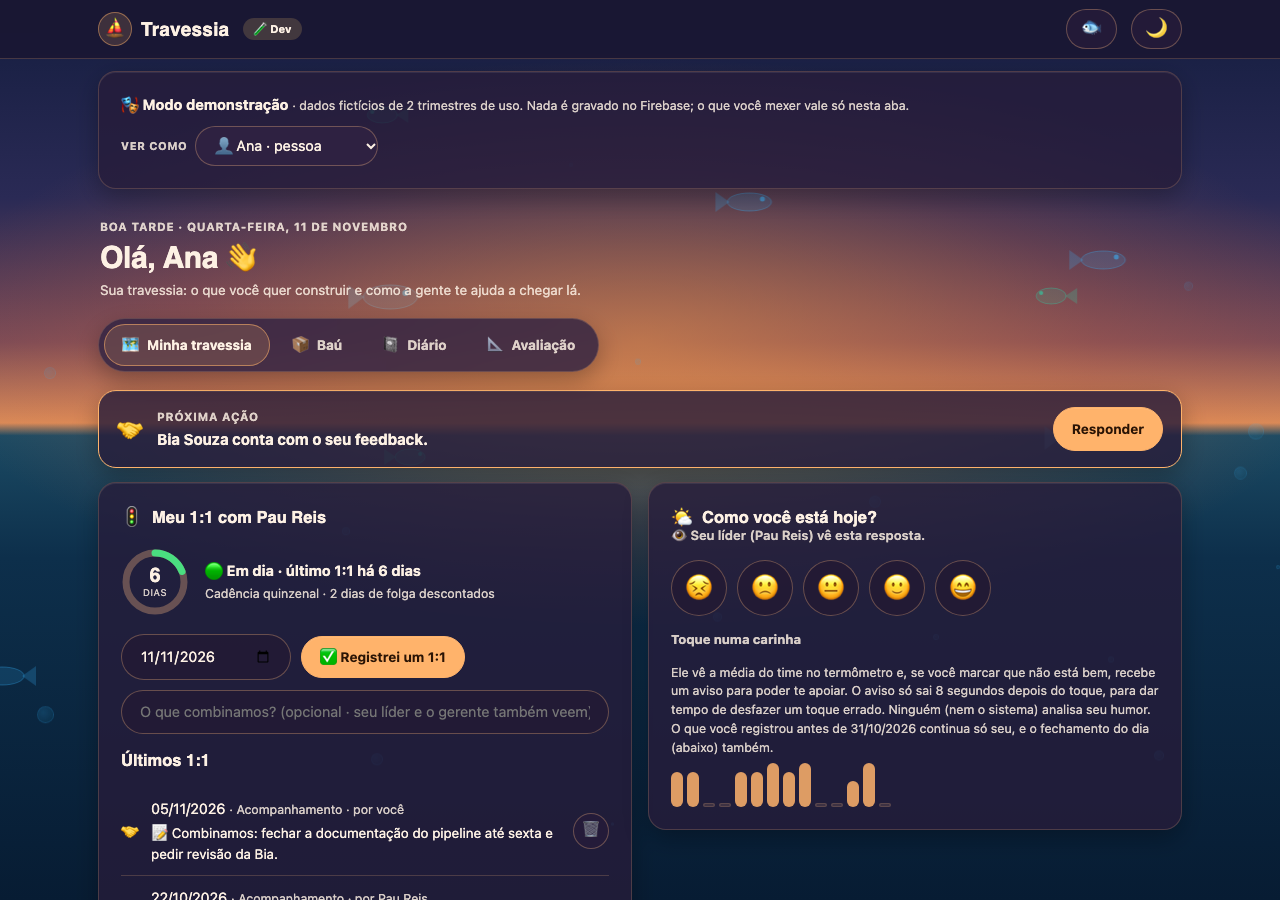
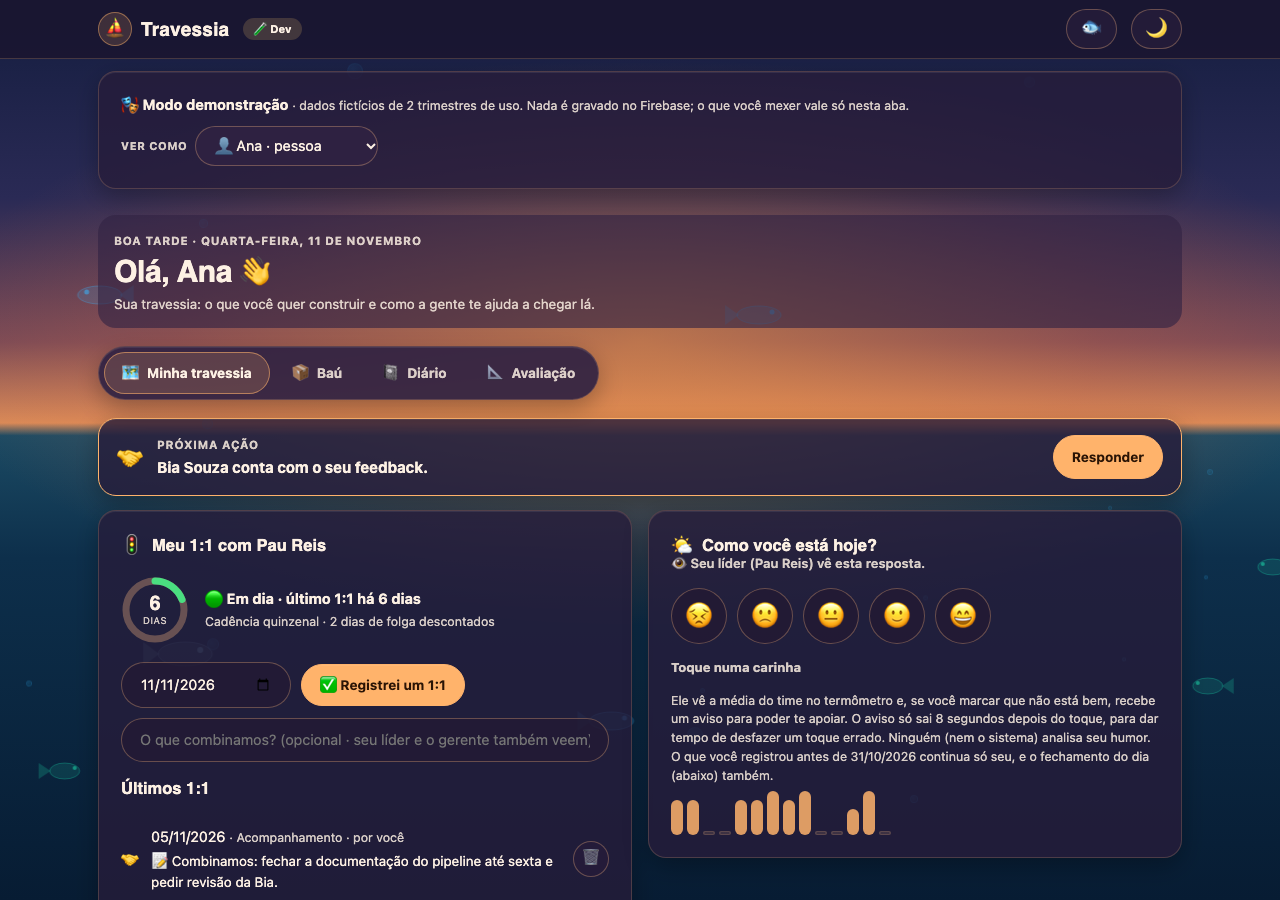
fix(travessia-dev): sem desfoque nas barras (peixes atrás) e fundo leve no claro/Entardecer
Agent: claude

diff --git a/travessia-dev.html b/travessia-dev.html
@@ -69,9 +69,9 @@ button{cursor:pointer;}
 [data-anim-paused] .fish-ltr,[data-anim-paused] .fish-rtl,[data-anim-paused] .bubble{animation-play-state:paused!important;}
 
 /* topo: fino, só marca + conta + tema */
-.topo{position:sticky;top:0;z-index:30;background:rgba(var(--deep-rgb),.78);backdrop-filter:blur(14px);-webkit-backdrop-filter:blur(14px);border-bottom:1px solid var(--line);}
+.topo{position:sticky;top:0;z-index:30;background:rgba(var(--deep-rgb),.9);border-bottom:1px solid var(--line);}   /* sem desfoque: com peixes e bolhas atrás, o blur seria refeito a cada quadro (GUIA §2.3) */
 .topo-in{max-width:1120px;margin:0 auto;padding:9px 18px;display:flex;flex-wrap:wrap;gap:10px 14px;align-items:center;}
-:root[data-theme="light"] .topo{background:rgba(255,255,255,.82);}
+:root[data-theme="light"] .topo{background:rgba(255,255,255,.9);}
 .logo{font-family:var(--ff-d);font-weight:800;font-size:19px;letter-spacing:.01em;display:flex;align-items:center;gap:9px;}
 .logo .lg{width:34px;height:34px;border-radius:50%;display:flex;align-items:center;justify-content:center;font-size:17px;background:rgba(var(--accent-rgb),.16);box-shadow:inset 0 0 0 1px rgba(var(--accent-rgb),.45);}
 .proto{font-size:11px;font-weight:700;padding:3px 10px;border-radius:999px;background:var(--warn-bg);color:var(--txt);}
@@ -87,7 +87,7 @@ button{cursor:pointer;}
 .sec{padding:4px 2px;}
 .sec>.row:first-child{padding-bottom:10px;border-bottom:1px solid var(--line);}
 .stack>.sec{margin-top:26px;}
-:root[data-theme="light"] .sec{background:rgba(var(--surface-rgb),.62);border-radius:var(--r2);padding:14px 16px;}   /* no claro, texto escuro direto sobre o azul do fundo fica < 4,5:1 */
+:root[data-theme="light"] .sec,:root[data-theme="sunset"] .sec,:root[data-theme="light"] .hero,:root[data-theme="sunset"] .hero{background:rgba(var(--surface-rgb),.62);border-radius:var(--r2);padding:14px 16px;}   /* no claro (azul) e no Entardecer (brilho laranja), texto direto sobre o fundo fica < 4,5:1 */
 .pad{padding:22px;}
 .h1{font-family:var(--ff-d);font-size:30px;font-weight:800;line-height:1.1;letter-spacing:-.01em;}
 .h2{font-family:var(--ff-d);font-size:16.5px;font-weight:700;display:flex;align-items:center;gap:10px;flex-wrap:wrap;}
@@ -109,7 +109,7 @@ button{cursor:pointer;}
 .hero .barco,.hero .ondas{display:none;}
 
 /* navegação: pílula no desktop, barra inferior no celular */
-.nav{position:sticky;top:62px;z-index:25;display:flex;gap:4px;margin:0 0 18px;padding:5px;border-radius:999px;background:rgba(var(--surface-rgb),.82);border:1px solid var(--line);box-shadow:var(--lift);backdrop-filter:blur(12px);-webkit-backdrop-filter:blur(12px);overflow-x:auto;scrollbar-width:none;width:fit-content;max-width:100%;}
+.nav{position:sticky;top:62px;z-index:25;display:flex;gap:4px;margin:0 0 18px;padding:5px;border-radius:999px;background:rgba(var(--surface-rgb),.92);border:1px solid var(--line);box-shadow:var(--specular),var(--lift);overflow-x:auto;scrollbar-width:none;width:fit-content;max-width:100%;}
 .nav::-webkit-scrollbar{display:none;}
 .nav button{flex:none;display:inline-flex;align-items:center;gap:8px;border:0;background:none;padding:10px 18px;border-radius:999px;font-weight:700;font-size:13.5px;color:var(--txt2);min-height:42px;white-space:nowrap;transition:background .18s,color .18s,transform .18s;}
 .nav button:hover{background:var(--glass-h);color:var(--txt);}

diff --git a/docs/arezzo/testes/test_travessia_marine.js b/docs/arezzo/testes/test_travessia_marine.js
@@ -30,6 +30,7 @@ const base = process.env.BASE_URL || 'http://127.0.0.1:8961', out = path.join(__
     await p.click('#btn-peixes'); await p.waitForTimeout(200); t('🐟 de novo liga', (await p.locator('#fwrap > div').count()) === 8, '');
     await p.evaluate(() => { Object.defineProperty(document, 'hidden', { configurable: true, get: () => true }); document.dispatchEvent(new Event('visibilitychange')); }); await p.waitForTimeout(100);
     t('aba escondida: animação pausa (data-anim-paused + play-state paused)', await p.evaluate(() => document.documentElement.hasAttribute('data-anim-paused') && getComputedStyle(document.querySelector('#fwrap > div')).animationPlayState === 'paused'), '');
+    t('nenhuma superfície com desfoque (peixes e bolhas passam atrás da barra do topo e da barra de abas: o blur seria refeito a cada quadro)', await p.evaluate(() => [...document.querySelectorAll('body *')].every(e => { const c = getComputedStyle(e); return c.backdropFilter === 'none' && (c.webkitBackdropFilter || 'none') === 'none'; })), '');
     t('sem erro de JS', !errs.length, errs); await ctx.close(); }
   { const { ctx, p } = await abre('&como=ana', { width: 390, height: 844 });
     t('celular: 4 peixes e 8 bolhas', (await p.locator('#fwrap > div').count()) === 4 && (await p.locator('#bwrap .bubble').count()) === 8, ''); await ctx.close(); }
@@ -67,8 +68,8 @@ const base = process.env.BASE_URL || 'http://127.0.0.1:8961', out = path.join(__
       t(rot + ' · ' + tab + ': sem rolagem lateral e sem erro', (await p.evaluate(() => document.documentElement.scrollWidth <= innerWidth + 1)) && !errs.length, errs);
       if (tab === 'inicio') { const c = await p.evaluate(() => { const e = document.querySelector('#painel .btn.p'); const cs = getComputedStyle(e); return [cs.color, cs.backgroundColor]; });
         t(rot + ': texto do botão principal ≥ 4,5:1', contr(c[0], c[1]) >= 4.5, [c, contr(c[0], c[1]).toFixed(2)]);
-        if (tema === 'light') { const s = await p.evaluate(() => { const e = document.querySelector('#painel .sec'); const cs = getComputedStyle(e); return [cs.color, cs.backgroundColor]; });
-          t(rot + ': seção aberta no claro tem fundo de vidro (texto legível sobre o azul)', !/, 0\)$/.test(s[1]), s); }
+        if (tema) { const s = await p.evaluate(() => [document.querySelector('#painel .sec'), document.querySelector('.hero')].map(e => getComputedStyle(e).backgroundColor));
+          t(rot + ': saudação e seções abertas com fundo de vidro (texto legível sobre o ' + (tema === 'light' ? 'azul' : 'brilho laranja') + ')', s.every(x => !/, 0\)$/.test(x) && x !== 'transparent'), s); }
         await p.screenshot({ path: path.join(out, nome + '-' + vp.width + '.png'), clip: { x: 0, y: 0, width: vp.width, height: vp.height } }); }
       await ctx.close(); } }
 

diff --git a/CHANGELOG.md b/CHANGELOG.md
@@ -36,10 +36,11 @@ Pedido do Caio: "tá muito quadrada, muita cara de IA, pouco Marine Glass". O qu
 - Faixa colorida na lateral dos cartões do Baú → removida (o tipo segue no ícone e no filtro).
 - "Devolutiva trancada" em amarelo de alerta → neutra com 🔒 (trancado não é aviso). O "🫶 Pra ficar de olho" do líder continua amarelo.
 - Mural de Estrelas com moldura dourada → vidro com ⭐.
-- Cartões com desfoque (`backdrop-filter`) parados sobre o fundo → vidro lapidado (linha de luz no topo, guia §2.5 regra 6), sem refazer o desfoque a cada quadro com os peixes nadando atrás. Cantos 22 → 18 px.
+- Desfoque (`backdrop-filter`) nos cartões, na barra do topo e na barra de abas → vidro lapidado (linha de luz no topo, guia §2.5 regra 6), sem desfoque nenhum na página: com os peixes nadando atrás, ele seria refeito a cada quadro. Cantos 22 → 18 px.
+- No tema claro e no Entardecer, a saudação e as seções abertas ganham um fundo leve de vidro (texto direto sobre o azul ou o brilho laranja ficava < 4,5:1).
 - Cartões vizinhos esticando até a altura do maior (vazio embaixo do humor e no Baú) → alinhados pelo topo.
 - Folga grande embaixo da barra do modo demonstração → removida.
-- Testes: `test_travessia_marine.js` (61/61, 3 temas × 1280/390 px). `test_travessia_ui.js` foi atualizado para o desenho novo; ele também caía na `main` por procurar o interruptor de compartilhar humor, removido em 31/10.
+- Testes: `test_travessia_marine.js` (64/64, 3 temas × 1280/390 px). `test_travessia_ui.js` foi atualizado para o desenho novo; ele também caía na `main` por procurar o interruptor de compartilhar humor, removido em 31/10.
 
 ### Radar — faixa "⭐ Pra você" no topo da lista (R3 da consultoria) (SÓ DEV · okr-dev v2.113) — 2026-11-11
 
